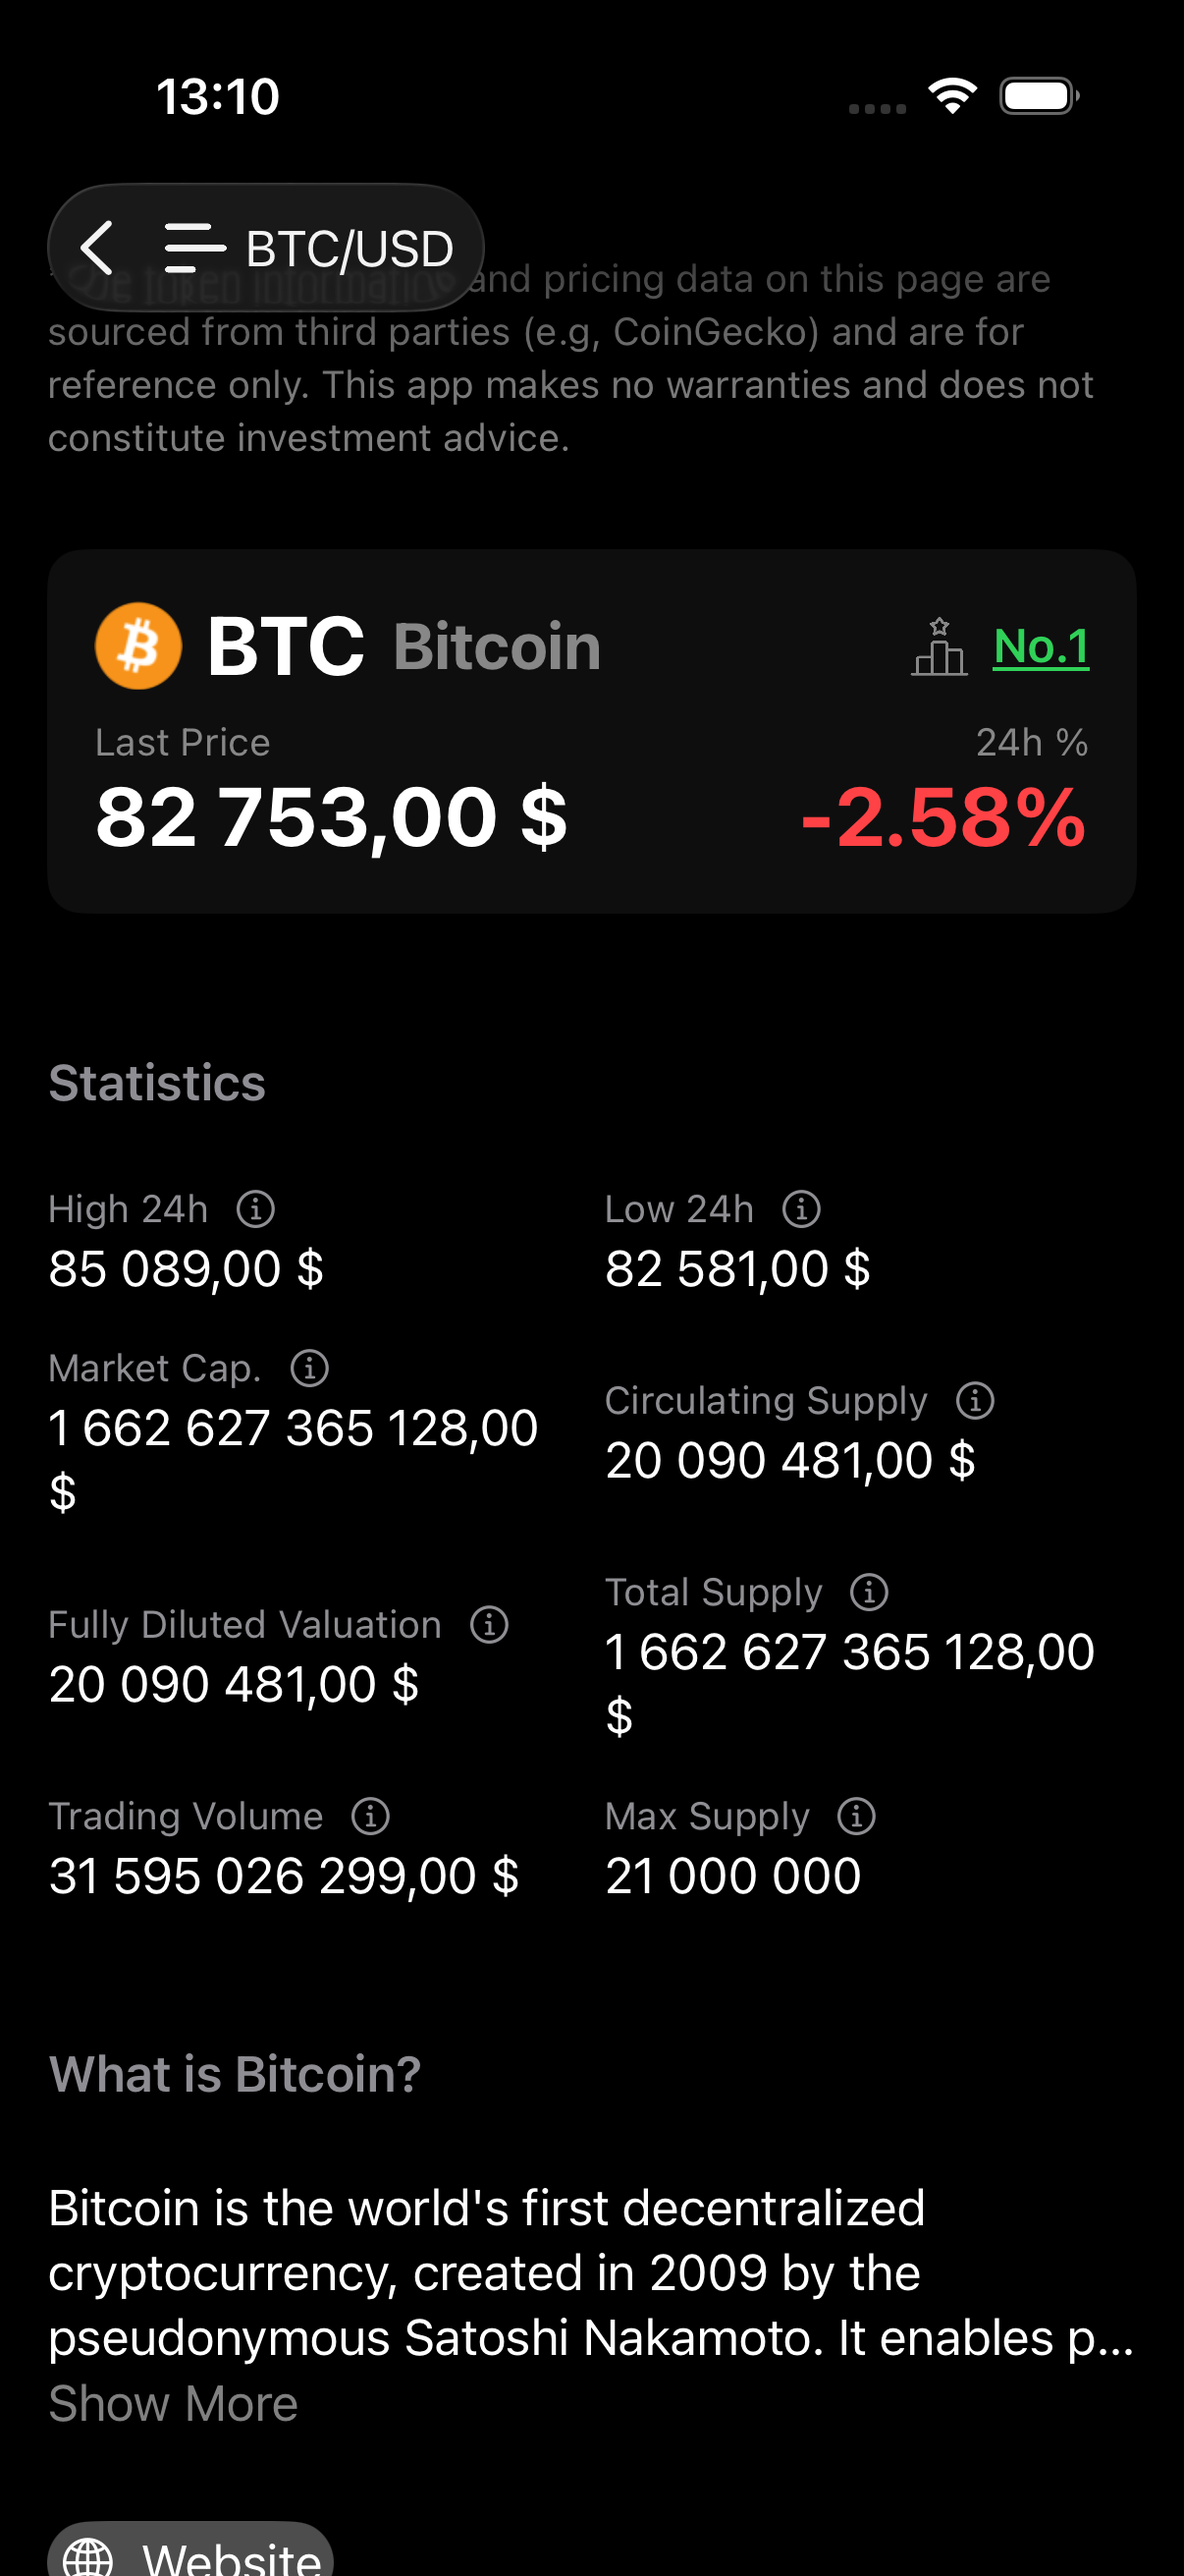
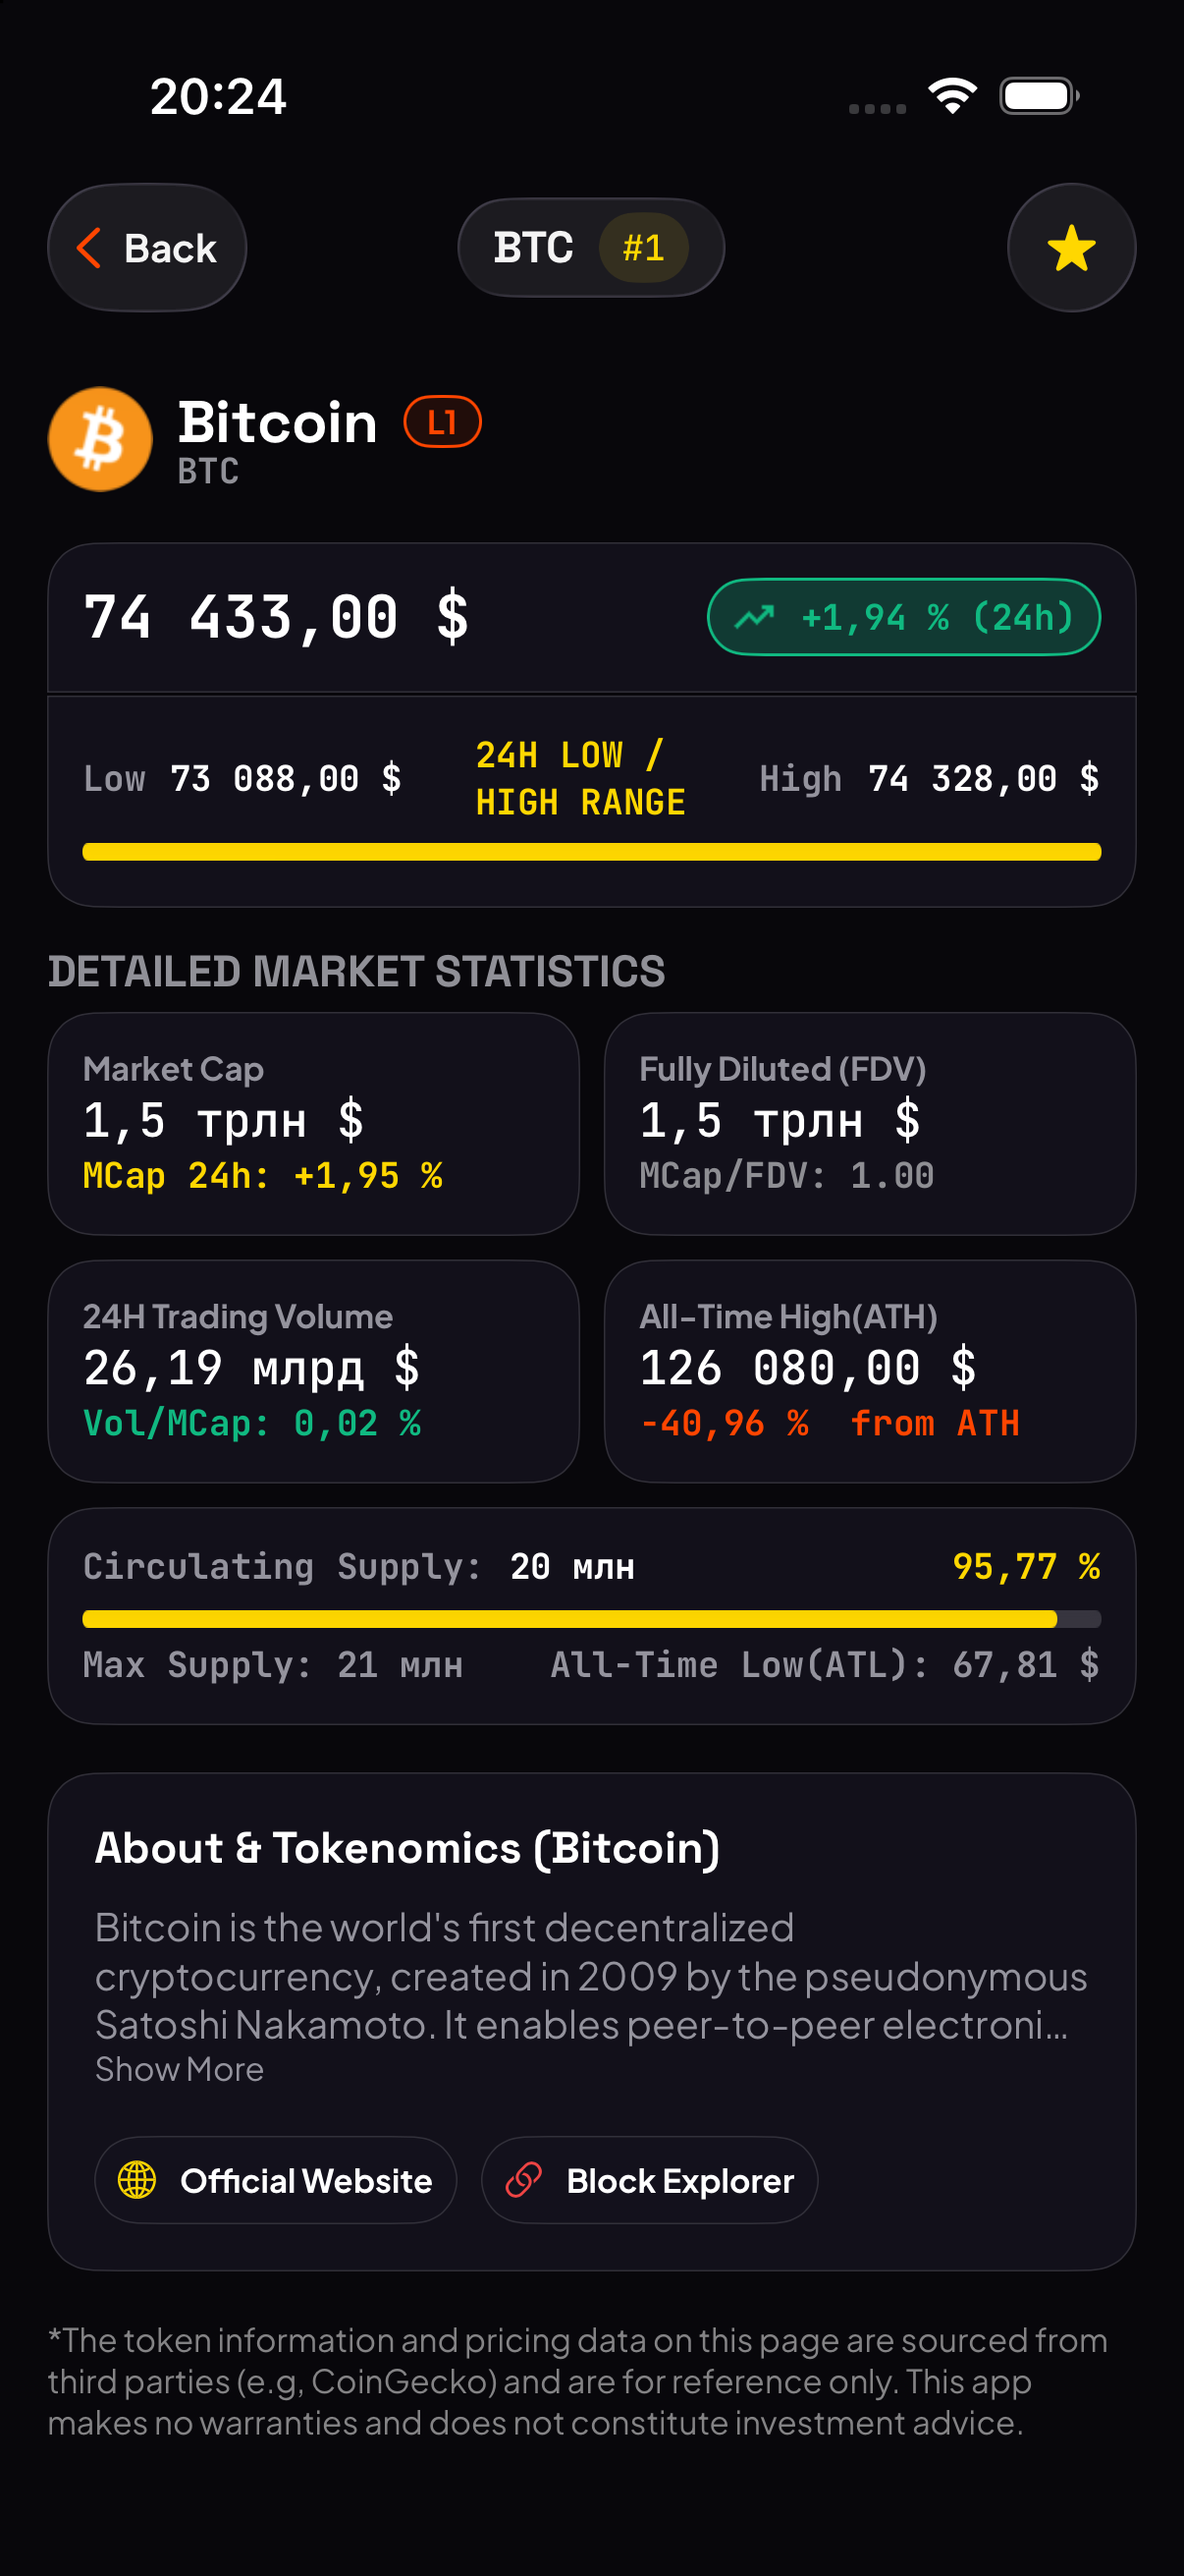
docs(readme): обновлены изображения экранов

diff --git a/README.md b/README.md
@@ -6,9 +6,10 @@
 
 ## 📱 Скриншоты и Демонстрация
 
-|      Главный экран (Markets)       |          Поиск и Фильтры          |           Детали Коина            |              Настройки              |
-| :--------------------------------: | :-------------------------------: | :-------------------------------: | :---------------------------------: |
-| ![Markets Screen](C-Tab/docs/marketsScreen.png) | ![Search Screen](C-Tab/docs/searchScreen.png) | ![Detail Screen](C-Tab/docs/coinDetailsScreen.png) | ![Settings Screen](C-Tab/docs/profileScreen.png) |
+|             Главный экран (Markets)             |                Поиск и Фильтры                |                    Детали Коина                    |                    Настройки                     |
+| :---------------------------------------------: | :-------------------------------------------: | :------------------------------------------------: | :----------------------------------------------: |
+| ![Markets Screen](Nodal/docs/marketsScreen.png) | ![Search Screen](Nodal/docs/searchScreen.png) | ![Detail Screen](Nodal/docs/coinDetailsScreen.png) | ![Settings Screen](Nodal/docs/profileScreen.png) |
+|                                                 |                                               |                                                    |                                                  |
 
 ---
 
